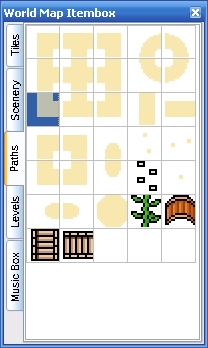
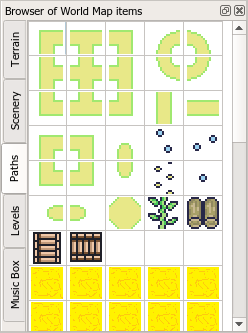
Some other tunes

diff --git a/Editing/Placing.md b/Editing/Placing.md
@@ -38,7 +38,6 @@ _Placing items with rectangle tool_
 <ImageZoom
   alt="demo-place-rect"
   url="demos/demo-place-rect.gif"
-  width="200px"
   :border="true"
 />
 
@@ -56,7 +55,6 @@ _Placing blocks with circle tool_
 <ImageZoom
   alt="demo-place-circle"
   url="demos/demo-place-circle.gif"
-  width="200px"
   :border="true"
 />
 
@@ -78,15 +76,8 @@ _Placing items with line tool_
 <ImageZoom
   alt="demo-place-line"
   url="demos/demo-place-line.gif"
-  width="200px"
-  :border="true"
-/><ImageZoom
-  alt="place_blocks_line2"
-  url="screenshots/LevelEditing/Items/place_blocks_line2.png"
-  width="200px"
   :border="true"
 />
-
 
 ## Flood fill
 
@@ -100,11 +91,9 @@ item group, you must draw the line on the map and it will be filled
 with selected item.
 
 Notes:
-
--For safety reasons flood filling process will be aborted after 3 seconds.
+- For safety reasons flood filling process will be aborted after 3 seconds.
 If you accidentally filled whole map, you can undo them.
-
--You can limit flood-fill with section boundaries if you will enable
+- You can limit flood-fill with section boundaries if you will enable
 flag in the  \[Edit -> Don't fill out of section\].
 
 _Filling with blocks_
@@ -112,7 +101,6 @@ _Filling with blocks_
 <ImageZoom
   alt="demo-place-flood"
   url="demos/demo-place-flood.gif"
-  width="200px"
   :border="true"
 />
 
@@ -128,6 +116,5 @@ _Draw with overwrite mode_
 <ImageZoom
   alt="demo-override-mode"
   url="demos/demo-override-mode.gif"
-  width="200px"
   :border="true"
 />

diff --git a/EditWorld/ItemToolbox.md b/EditWorld/ItemToolbox.md
@@ -1,7 +1,19 @@
-# Item Toolbox
-The special tool, what contains lists of available items for place into current level section.
+# Search Browser
 
-For switch current mode into placing item mode, you need only press on necessary item, and you can place items into world map space. Also in the music boxes list you can start playing of music when you click on them. If music player is enabled, will be started playing of music which you select for placing in the toolbox.																
+**Search browser** - The toolbox which contains a list of available items to add to the
+current level section or the world map. 
+
+Click a necessary object in the list to pick it
+up for adding to the level or world map.
+
+Unlike the Search Browser at the Level Editor, the Search Browser at the World Editor 
+has no filtering. 
+
+<Note type="tip">
+You can play music through music boxes list when you click any music list item.
+If music player enabled, the music playing will be started once you will select it from the item box.
+</Note>
+
 <ImageZoom 
   alt="WorldEdit_Item_toolbox1"
   url="screenshots/WorldEditing/WorldEdit_Item_toolbox1.png" 

diff --git a/Intro/QuickStart.md b/Intro/QuickStart.md
@@ -4,14 +4,14 @@ to build your levels and episodes for your games!
 
 [![PgeEditor](Intro/QuickStart/WhatIsPGEEditor.png)](QuickStart/WhatsAnEditor.md)
 
-[What's a Moondust Editor?](QuickStart/WhatsAnEditor.md)
+[Editor overview and guide](QuickStart/WhatsAnEditor.md)
 
 
 [![HowToLevels](Intro/QuickStart/HowToMakeLevels.png)](QuickStart/HowToMakeLevels.md)
 
-[How to make levels](QuickStart/HowToMakeLevels.md)
+[Levels in details](QuickStart/HowToMakeLevels.md)
 
 
 [![HowToWorlds](Intro/QuickStart/HowToMakeWorlds.png)](QuickStart/HowToMakeWorlds.md)
 
-[How to make world maps](QuickStart/HowToMakeWorlds.md)
+[World maps in details](QuickStart/HowToMakeWorlds.md)

diff --git a/Customizing/CustomGraphics.md b/Customizing/CustomGraphics.md
@@ -7,7 +7,7 @@ The process is quite simple, but for those of you who don't know how, here is an
 When using custom graphics, it's not necessary to replace any global data, you simply have to put your graphics in the per level or per episode folder of your game. All level files of an episode are placed together in this one folder.
 
 Level Custom Folders - are folders which have the same name as the level file. For example, the
-folder name for the level `Dracula.lvlx` would be "Dracula".
+folder name for the level `MyLevel.lvlx` would be `"MyLevel"`.
 
 ![Tree](screenshots/Customizing/tree.png)
 

diff --git a/EditWorld/WorldSettings.md b/EditWorld/WorldSettings.md
@@ -14,8 +14,8 @@ in a game save slot choosing menu.
 
 * **Credits** - the special field which allow add credit list which will be shown in the credits screen
 after end of the game.
-<Note type="warning">
-Note: If you saving a world map into SMBX64-WLD and older, all lines after 5'th are will be lost.
+<Note type="danger">
+If you save a world map into SMBX64-WLD and older, all lines after the 5th are will be lost.
 </Note>
 * **Disable character** - these flags disabling possibles for select the character in the game menu.
 

diff --git a/EditorUI/HistoryManager.md b/EditorUI/HistoryManager.md
@@ -4,8 +4,8 @@ This editor records all actions in a history manager. You can undo and redo acti
 Currently only the level editor supports the History Manager.
 
 
-<Note type="tip">
-NOTE: Don't rely on the History Manager. Because this editor is a
+<Note type="note">
+Don't rely on the History Manager. Because this editor is a
 work in progress, it can always be that some actions aren't recorded
 yet. You should always make a backup of your current level file!
 </Note>
